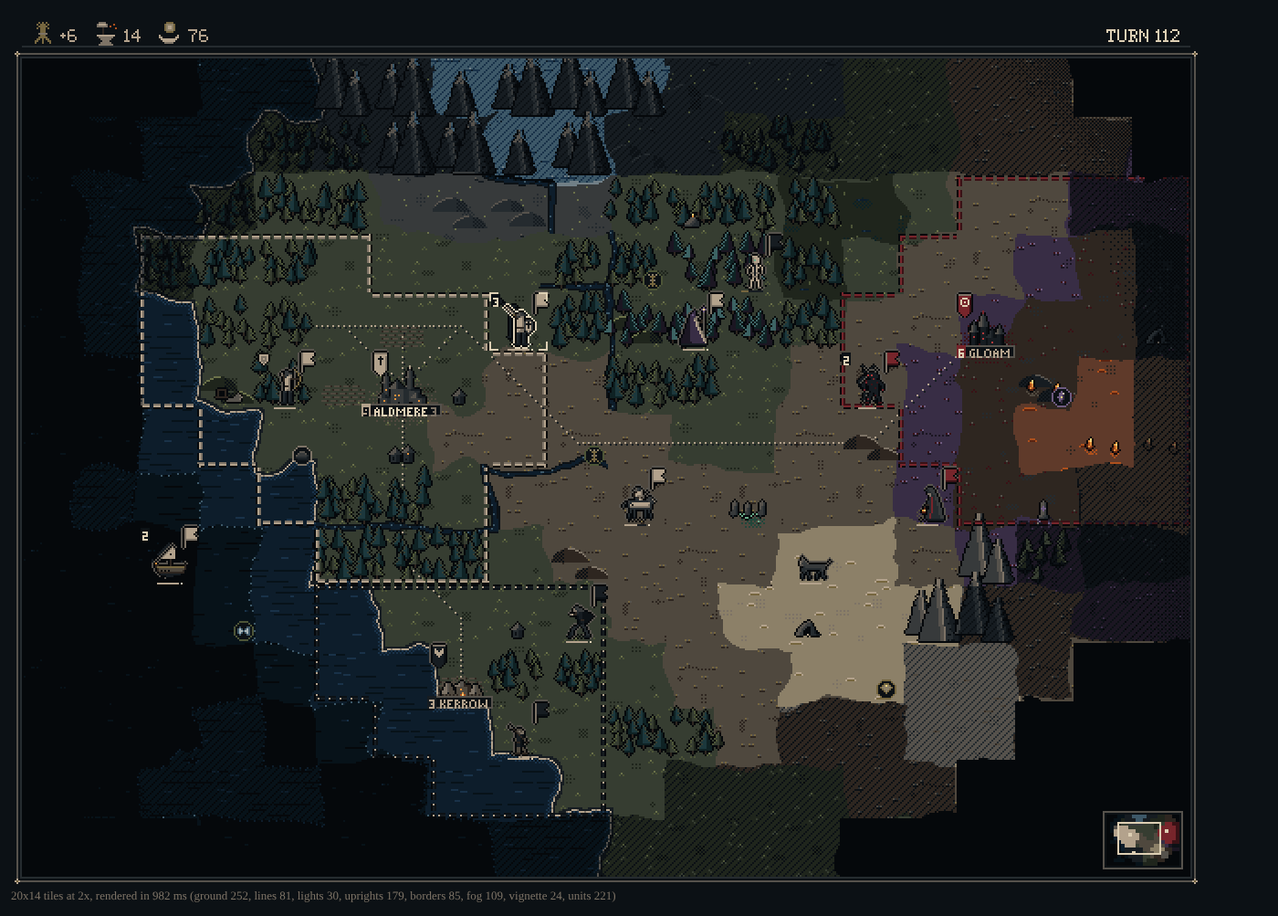
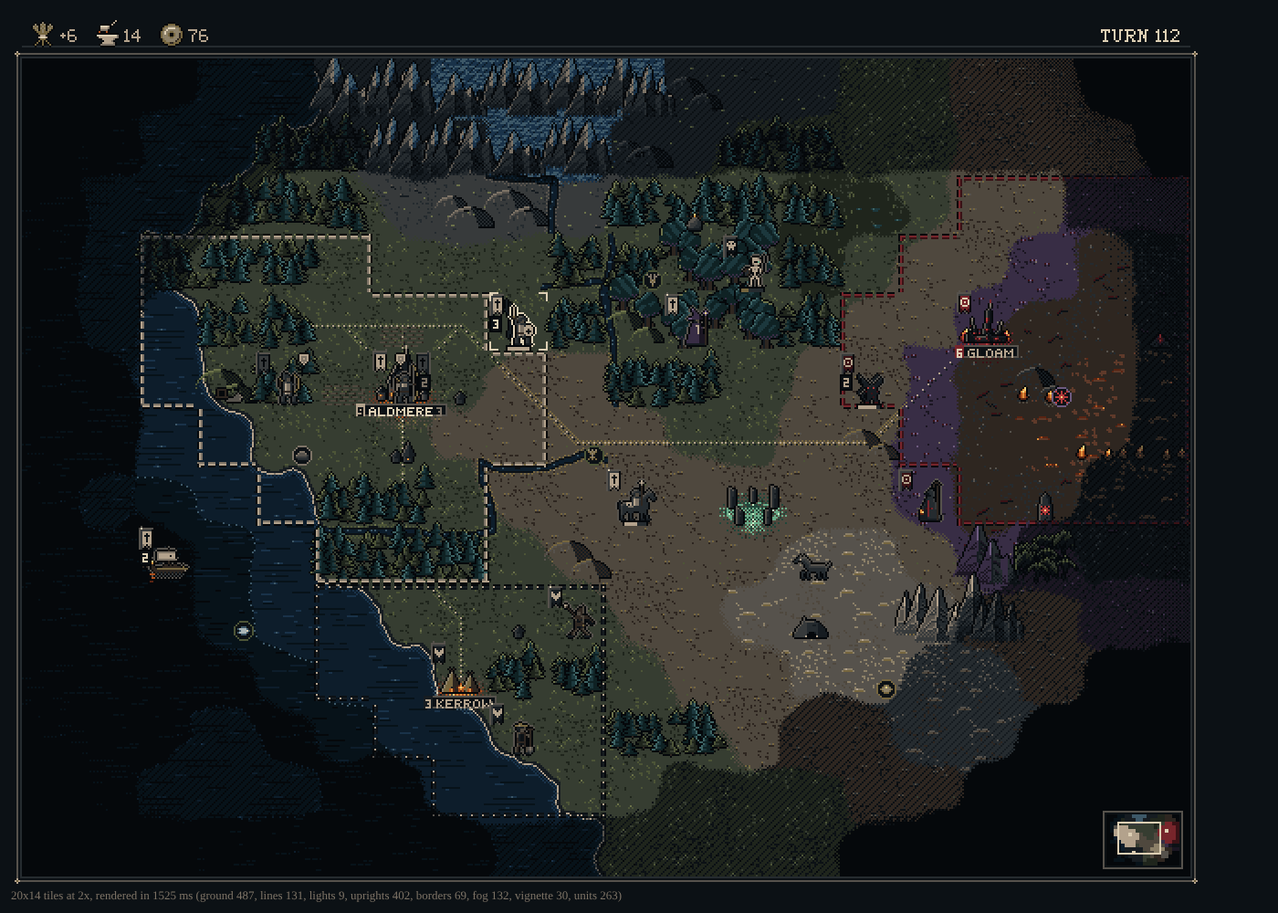
ffh-art: final assembly: one stack standard, set passes installed by loadArt, ART.md status
Integration of terrain r2, units r2, cities r2 and ui r2 (no restyling):
- ui/stack_banner was defined twice (units/stack.spr and ui/heraldry.spr, verbatim): the ui set
  adopted it, so units/stack.spr and its manifest source line go.
- loadArt() installs the sets' passes (art.js PASSES: terrain/ground.js, units/stack.js,
  cities/citylight.js; loadArt({ passes: false }) for the seed). Without it the retired pennant
  left stacks with no owner mark and the toolkit drew the seed ground and city pools.
  The set previews keep their own toggles with passes: false; scene.html gets ?passes=0.
- renderMap sets state.inCity for a stack on a city tile, so its standard moves to the top-right
  clear of the city banner; the scene has an Aldmere garrison to show it.
- Contact sheet: the heraldry grid shows ui/stack_banner instead of the retired ui/pennant.
- check.sh syntax-checks the sets' modules too; validate.mjs checks the passes install.
- Stale "until the toolkit adopts it" notes updated; docs/art reference shots regenerated.
- docs/ART.md section 16: coverage, fallbacks, how the client calls art.js, and where the
  sets supersede the guide.

Claude-Session: https://claude.ai/code/session_015m21G1a13FKUWE1YyaXREp

diff --git a/projects/ffh2-rs/crates/ffh-play/web/art/art.js b/projects/ffh2-rs/crates/ffh-play/web/art/art.js
@@ -2,6 +2,7 @@
 //
 //   import { loadArt } from './art/art.js';
 //   const art = await loadArt();          // fetches palette, sets, manifests, sprites, types.json
+//                                         // and installs the set passes (PASSES)
 //   art.scale = 2;                        // canvas pixels per art pixel (integer)
 //   art.setWorld({ width, height, wrapX });
 //   art.drawTerrain(ctx, px, py, plot);   // px, py: canvas position of the tile's top-left corner
@@ -28,7 +29,31 @@ const bayer = (x, y) => BAYER[(y & 3) * 4 + (x & 3)];
 const DIRS8 = [[0, -1], [1, -1], [1, 0], [1, 1], [0, 1], [-1, 1], [-1, 0], [-1, -1]];
 const DIVISIONS = ['plain', 'pale', 'fess', 'bend', 'quarterly'];
 
-/** Load the toolkit. opts: { base (URL of the art directory), bundle (text from tools/bundle.mjs), read (async path => text) } */
+/**
+ * The sets' passes over the seed drawing below, installed by loadArt (docs/ART.md 16): each wraps
+ * or replaces some Art methods and is idempotent. Paths are relative to this module.
+ *   terrain/ground.js    the ground pass: drawTerrain, drawFog, drawRiver, drawRoad, drawRelief,
+ *                        drawFeature
+ *   units/stack.js       drawUnit's overlay: the stack standard, count, health, marks, reflections
+ *   cities/citylight.js  drawLight's city pools (opts.inner) and drawCity's wall glow and lights
+ */
+export const PASSES = [
+  ['./terrain/ground.js', 'installTerrain'],
+  ['./units/stack.js', 'installStackOverlay'],
+  ['./cities/citylight.js', 'installCityLight'],
+];
+
+/** Install the set passes on an Art (idempotent). loadArt calls it unless opts.passes === false. */
+export async function installPasses(art) {
+  for (const [path, fn] of PASSES) (await import(path))[fn](art);
+  return art;
+}
+
+/**
+ * Load the toolkit. opts: { base (URL of the art directory), bundle (text from tools/bundle.mjs),
+ * read (async path => text), passes (default true: install the set passes, PASSES), lenient }.
+ * The pass modules are always imported next to this module, whatever `base` or `bundle` say.
+ */
 export async function loadArt(opts = {}) {
   let read = opts.read;
   if (!read && opts.bundle) {
@@ -45,7 +70,9 @@ export async function loadArt(opts = {}) {
   }
   const lib = await loadLibrary(read);
   if (lib.errors.length && !opts.lenient) console.warn(`art: ${lib.errors.length} source errors\n` + lib.errors.slice(0, 20).join('\n'));
-  return new Art(lib);
+  const art = new Art(lib);
+  if (opts.passes !== false) await installPasses(art);
+  return art;
 }
 
 function makeCanvas(w, h) {

diff --git a/projects/ffh2-rs/crates/ffh-play/web/art/compose.js b/projects/ffh2-rs/crates/ffh-play/web/art/compose.js
@@ -52,7 +52,9 @@ export function fromApiMap(api, width, height, wrapX = false) {
  *   x0, y0      canvas position of tile (0, 0); tx0, ty0, cols, rows: the tile range drawn
  *   owners      Map(ownerId -> art owner style)
  *   cities      [{ x, y, owner, size, name, capital, own, turns, disorder }]
- *   stacks      [{ x, y, unit, owner, count, state }]   one per tile: the head unit
+ *   stacks      [{ x, y, unit, owner, count, state }]   one per tile: the head unit; state as
+ *               units/stack.js reads it ({ own, moves, selected, hp, mark, hero, facing, ... });
+ *               inCity defaults to whether a city of `cities` stands on the tile
  *   cursor      { x, y, selected }
  *   vignette    bool (default true); skip: Set of layers to leave out (rivers roads lights borders fog)
  *   timings     an object that receives milliseconds per phase
@@ -143,14 +145,16 @@ export function renderMap(art, ctx, map, opts = {}) {
   }
 
   function unitLayers() {
-    // 11. units row by row, then overlays
+    // 11. units row by row, then overlays. A stack on a city tile flies its standard at the
+    // top-right (state.inCity, units/stack.js): the city banner holds the top-left.
     const stacks = (opts.stacks || []).slice().sort((a, b) => a.y - b.y || a.x - b.x);
-    for (const st of stacks) art.drawUnit(ctx, px(st.x), py(st.y), st.unit, owners.get(st.owner), { ...st.state, count: st.count, layer: 'sprite' });
+    const stateOf = (st, layer) => ({ inCity: cityAt.has(`${st.x},${st.y}`), ...st.state, count: st.count, layer });
+    for (const st of stacks) art.drawUnit(ctx, px(st.x), py(st.y), st.unit, owners.get(st.owner), stateOf(st, 'sprite'));
     for (const c of opts.cities || []) {
       const p = P(c.x, c.y);
       if (p && p.vis) art.drawCity(ctx, px(c.x), py(c.y), { ...c, visible: visible(p), layer: 'overlay' }, owners.get(c.owner));
     }
-    for (const st of stacks) art.drawUnit(ctx, px(st.x), py(st.y), st.unit, owners.get(st.owner), { ...st.state, count: st.count, layer: 'overlay' });
+    for (const st of stacks) art.drawUnit(ctx, px(st.x), py(st.y), st.unit, owners.get(st.owner), stateOf(st, 'overlay'));
     if (opts.cursor) art.drawTileCursor(ctx, px(opts.cursor.x), py(opts.cursor.y), !!opts.cursor.selected);
     lap('units');
   }

diff --git a/projects/ffh2-rs/crates/ffh-play/web/art/preview/scene.js b/projects/ffh2-rs/crates/ffh-play/web/art/preview/scene.js
@@ -1,5 +1,6 @@
 // scene.js: a 20x14 sample map in the mood-board composition: the map as a framed night page,
-// a thin top band, a minimap. ?scale=N sets the art scale (default 2). Rendered with compose.js.
+// a thin top band, a minimap. Rendered with compose.js. ?scale=N sets the art scale (default 2);
+// ?passes=0 leaves out the set passes (art.js PASSES: ground, stack standards, city light).
 import { loadArt, TILE } from '../art.js';
 import { makePlots, renderMap } from '../compose.js';
 
@@ -106,6 +107,7 @@ const STACKS = [
   { x: 8, y: 4, unit: 'UNIT_SWORDSMAN', owner: 'a', count: 3, state: { selected: true, hp: 100, moves: true } },
   { x: 10, y: 7, unit: 'UNIT_HORSEMAN', owner: 'a', count: 1, state: { hp: 60, moves: true } },
   { x: 4, y: 5, unit: 'UNIT_ARCHER', owner: 'a', count: 1, state: { hp: 100, moves: false, mark: 'fortify' } },
+  { x: 6, y: 5, unit: 'UNIT_LONGBOWMAN', owner: 'a', count: 2, state: { hp: 100, moves: false, mark: 'fortify' } },
   { x: 11, y: 4, unit: 'UNIT_ADEPT', owner: 'a', count: 1, state: { hp: 100, moves: true } },
   { x: 2, y: 8, unit: 'UNIT_TRIREME', owner: 'a', count: 2, state: { hp: 100, moves: true } },
   { x: 14, y: 5, unit: 'UNIT_IMP', owner: 'b', count: 2, state: { hp: 80, facing: 'left' } },
@@ -186,7 +188,7 @@ function minimap(art, ctx, x, y, map, owners) {
 }
 
 async function main() {
-  const art = await loadArt({ base: new URL('../', import.meta.url), lenient: true });
+  const art = await loadArt({ base: new URL('../', import.meta.url), lenient: true, passes: q.get('passes') !== '0' });
   if (art.lib.errors.length) throw new Error(art.lib.errors.join('\n'));
   art.scale = SCALE;
   const s = SCALE;

diff --git a/projects/ffh2-rs/crates/ffh-play/web/art/ui/preview.js b/projects/ffh2-rs/crates/ffh-play/web/art/ui/preview.js
@@ -590,9 +590,10 @@ async function optional(path, install) {
 }
 
 async function main() {
-  const art = await loadArt({ base: new URL('../', import.meta.url), lenient: true });
+  const art = await loadArt({ base: new URL('../', import.meta.url), lenient: true, passes: false });
   if (art.lib.errors.length) throw new Error(art.lib.errors.join('\n'));
-  // the other sets' drawing modules, until the toolkit adopts them: the units set's stack standard
+  // the other sets' drawing modules, picked here (passes: false; loadArt installs all three by
+  // default): the units set's stack standard
   // (the gonfalon, ui/stack_banner: the only owner mark on a stack); with ?ground the terrain set's
   // ground pass and with ?citylight the cities set's hearth pools (both from their second round)
   await optional('../units/stack.js', (m) => m.installStackOverlay(art));

diff --git a/projects/ffh2-rs/crates/ffh-play/web/art/preview/sheet.js b/projects/ffh2-rs/crates/ffh-play/web/art/preview/sheet.js
@@ -195,7 +195,7 @@ function renderSet(set) {
         else if (ns === 'improvement') c = improvementCell(s);
         else if (ns === 'res') c = resourceCell(s);
         else if (ns === 'route') c = spriteCell(s, 6, 'Q');
-        else if (ns === 'ui' && (s.name === 'ui/pennant' || s.name === 'ui/banner')) { grid.append(heraldryCells(s)); continue; }
+        else if (ns === 'ui' && (s.name === 'ui/stack_banner' || s.name === 'ui/banner')) { grid.append(heraldryCells(s)); continue; }
         else if (ns === 'sigil') { grid.append(sigilCell(s)); continue; }
         else c = spriteCell(s, ns === 'icon8' ? 5 : 4, '1');
         const sub = `${s.w}x${s.h}${s.meta.types.length ? ' ' + s.meta.types.join(' ') : ''}${s.meta.note ? '<br>' + s.meta.note : ''}`;

diff --git a/projects/ffh2-rs/crates/ffh-play/web/art/units/stack.js b/projects/ffh2-rs/crates/ffh-play/web/art/units/stack.js
@@ -32,7 +32,8 @@
 // pip; the count chip hangs under the sprite), so the sprite can be redrawn or moved to another set
 // without touching this file.
 //
-// Use: `installStackOverlay(art)` once after loadArt(); art.drawUnit then draws this overlay
+// Use: loadArt() installs it (art.js PASSES); by hand, `installStackOverlay(art)` once after
+// loadArt({ passes: false }); art.drawUnit then draws this overlay
 // instead of the seed pennant/strip (layer 'sprite' is unchanged; 'overlay' and 'all' use this).
 // Or call `drawStackOverlay(art, ctx, x, y, unitType, owner, state)` directly after
 // drawUnit(..., { layer: 'sprite' }). Position: the canvas point of the tile's top-left corner.

diff --git a/projects/ffh2-rs/crates/ffh-play/web/art/terrain/ground.js b/projects/ffh2-rs/crates/ffh-play/web/art/terrain/ground.js
@@ -1,8 +1,8 @@
 // terrain/ground.js: the terrain set's ground pass (docs/ART.md 5.1, 5.3, 5.5, 5.6, 8.2), drawn over
-// art.js's seed versions of the same functions until the toolkit adopts them.
+// art.js's seed versions of the same functions. loadArt() installs it (art.js PASSES); by hand:
 //
 //   import { installTerrain } from './art/terrain/ground.js';
-//   const art = await loadArt();
+//   const art = await loadArt({ passes: false });
 //   installTerrain(art);                      // once; idempotent. art.drawTerrain etc. then use it.
 //
 // What it changes, against the seed drawing (the art director's terrain review, round 2):

diff --git a/projects/ffh2-rs/crates/ffh-play/web/art/terrain/preview.js b/projects/ffh2-rs/crates/ffh-play/web/art/terrain/preview.js
@@ -231,7 +231,7 @@ async function plate(art, title, L, scale, extra = {}) {
 }
 
 async function main() {
-  const art = await loadArt({ base: new URL('../', import.meta.url), lenient: true });
+  const art = await loadArt({ base: new URL('../', import.meta.url), lenient: true, passes: false });
   if (art.lib.errors.length) throw new Error(art.lib.errors.join('\n'));
   if (PASS) installTerrain(art, q.get('rim') ? { rimKey: q.get('rim') } : {});
   const want = (m) => !ONLY || ONLY === m;

diff --git a/projects/ffh2-rs/crates/ffh-play/web/art/cities/citylight.js b/projects/ffh2-rs/crates/ffh-play/web/art/cities/citylight.js
@@ -3,6 +3,7 @@
 //
 //   import { installCityLight } from './cities/citylight.js';
 //   installCityLight(art);        // once, after loadArt(): drawCity and renderMap pick it up
+//   (loadArt() installs it by default, art.js PASSES; this is for loadArt({ passes: false }))
 //
 // 1. The hearth pool. art.drawLight's city pool applies FIRE twice (full radius, then half), and
 //    FIRE twice walks moss to dun, then ochre: the city stands in mud. Here a lit city sits in two

diff --git a/projects/ffh2-rs/crates/ffh-play/web/art/units/preview.js b/projects/ffh2-rs/crates/ffh-play/web/art/units/preview.js
@@ -356,7 +356,7 @@ function roster(art, owners) {
 }
 
 async function main() {
-  const art = await loadArt({ base: new URL('../', import.meta.url), lenient: true });
+  const art = await loadArt({ base: new URL('../', import.meta.url), lenient: true, passes: false });
   if (art.lib.errors.length) throw new Error(art.lib.errors.join('\n'));
   installStackOverlay(art);
   const owners = new Map([

diff --git a/projects/ffh2-rs/crates/ffh-play/web/art/cities/preview.js b/projects/ffh2-rs/crates/ffh-play/web/art/cities/preview.js
@@ -254,7 +254,7 @@ function towns(art) {
 }
 
 async function main() {
-  const art = await loadArt();
+  const art = await loadArt({ passes: false });
   if (q.get('light') !== '0') installCityLight(art);
   if (q.get('banner') !== 'ui') useBannerStudy(art);
   if (parts.includes('styles')) out.append(styles(art));

diff --git a/projects/ffh2-rs/docs/ART.md b/projects/ffh2-rs/docs/ART.md
@@ -9,7 +9,9 @@ The direction comes from the user's mood board (`docs/art/mood-board.png`, v2). 
 **mood**, not the UX. Its words, specific symbols, icons, panel layout and resource counters are
 placeholders from the mock-up tool and are not copied. `docs/art/style-reference.png` is a
 prototype study rendered while writing this guide (palette, terrain key, unit silhouettes, owner
-pennants, a sample map). It validates the rules below. It is not final art.
+pennants, a sample map). It validates the rules below. It is not final art. Section 16 is the
+status of the art as assembled (coverage, fallbacks, how the client calls the toolkit, and where
+the sets' second rounds supersede sections of this guide).
 
 ---
 
@@ -1323,13 +1325,13 @@ Section 13's format, extended with metadata lines between the header and the row
   | `icon16/`, `icon8/`, `ui/mark_*` | 16x16, 8x8, 8x8 |
   | `sigil/` | 5x5 (or 7x7) charges in `*` |
   | `font/vigil/`, `font/tally/` | glyphs in `8`, anchor at the baseline; `x_sc` are small capitals |
-  | `ui/` | pennant, banner and other chrome |
+  | `ui/` | the stack standard, the city banner and other chrome |
 
 - Groups: `name_a`, `name_b`... are variants of `name` (picked per tile by hash); `name_f1`,
   `name_f2`... are animation frames (picked by `art.time`, 400 ms each). A rule targets the group.
 - Names starting with `_` (`unit/_melee`) are generic: category fallbacks, not a game type.
-- Outlines are part of the sprite. Moon rims, contact shadows, pools, pennants, HP strips and plaques
-  are added by the renderer.
+- Outlines are part of the sprite. Moon rims, contact shadows, pools, standards, HP strips and
+  plaques are added by the renderer.
 
 ### 15.2 Sets, manifests and the mapping
 
@@ -1388,7 +1390,8 @@ cannot read the XML). Regenerate it when the XML changes; the validator fails wh
 ```js
 import { loadArt, TILE } from './art/art.js';
 import { renderMap, makePlots, fromApiMap } from './art/compose.js';
-const art = await loadArt();                 // or loadArt({ base: url }) or loadArt({ bundle: text })
+const art = await loadArt();                 // or loadArt({ base: url }) or loadArt({ bundle: text });
+                                             // installs the set passes (section 16.3)
 art.scale = 2;                               // canvas pixels per art pixel, an integer (3.2)
 art.setWorld({ width, height, wrapX });      // the warp noise wraps with the map
 art.setIndexNames('terrain', names);         // let plots carry engine indices (from /api/data)
@@ -1414,7 +1417,7 @@ Drawing functions take the canvas position of the tile's top-left corner:
 | `drawResource(ctx, x, y, bonusType)` | the seal at tile 25,25 |
 | `drawImprovement(ctx, x, y, type, plot)` | improvement with its pools (dark windows when not visible) |
 | `drawCity(ctx, x, y, city, ownerStyle)` | style and tier sprite, pool, window light, finial, banner, plaque |
-| `drawUnit(ctx, x, y, unitType, ownerStyle, state)` | contact shadow, echoes, rim, pennant, HP strip, moves pip, stack chip or mark |
+| `drawUnit(ctx, x, y, unitType, ownerStyle, state)` | contact shadow, echoes, rim; the overlay (standard, count chip, health bar, mark, lantern reflections) from `units/stack.js` |
 | `drawFog(ctx, x, y, plot)` | the fog pass: FOG remap with hatching, void for unrevealed, ragged edges |
 | `drawLight(ctx, cx, cy, table, r, {inner})`, `drawVignette(ctx, x, y, w, h)` | index-remap pools and the vignette |
 | `drawText(ctx, x, y, text, {font, color, shadow, smallCaps})`, `measureText` | Vigil and Tally |
@@ -1422,7 +1425,7 @@ Drawing functions take the canvas position of the tile's top-left corner:
 | `drawSprite(ctx, x, y, name, variant)`, `drawTileCursor` | any sprite by name; the tile cursor |
 
 `city` is `{ size, name, capital, own, turns, disorder, visible, style, plaque, layer }`; `state` is
-`{ facing, selected, hp, moves, count, mark, hero, translucent, accent, noPennant, layer }`;
+`{ facing, selected, hp, moves, own, count, mark, hero, inCity, translucent, accent, noPennant, layer }`;
 `layer: 'sprite' | 'overlay'` splits a unit or city into the map part and the overlays drawn
 above every unit. `ownerStyle(civ, {division, tincture, ...})` builds an owner style and
 `assignOwners([{id, civ}])` applies the assignment of section 7.2.
@@ -1493,7 +1496,7 @@ redraw only changed tiles (3.1).
 4. Run `tools/check.sh`, then look: `node tools/screenshot.mjs /tmp/art` and read the set's sheet,
    `coverage.png` and `scene.png` at 1x and 2x. Review against section 14.
 
-The seed art is deliberately small: 8 terrain textures (hell terrains are recoloured twins), hill
+The toolkit started from seed art (section 16 has the art as it now stands), deliberately small: 8 terrain textures (hell terrains are recoloured twins), hill
 humps, rock and snow peaks, three conifers (also ancient, burnt, new forest and jungle through
 remaps), flames, routes; 15 generic unit silhouettes that every unit falls back to by combat class,
 race, domain and tier; Cloister tiers 1-3, Infernal 2 and Tribal 2 cities; farm, cottage, hamlet,
@@ -1501,3 +1504,148 @@ mine and category fallbacks for improvements and lairs; resource seals; pennant,
 sigils; the Vigil and Tally fonts; yield and category icons. Not drawn yet: bespoke units, most
 sigils and city styles, the 18 sphere runes, landmarks, walls, disorder smoke, holy-city glyphs,
 cursors and path previews.
+
+---
+
+## 16. Status
+
+The four sets were drawn in parallel (terrain, units, cities, ui), each revised in a second round
+after review, and merged on the branch `art-final`. `tools/check.sh` passes: every module parses,
+the unit tests pass, every sprite and rule validates, `types.json` matches `data/xml`, every game
+type of every kind resolves, and `loadArt` installs the set passes.
+
+### 16.1 Coverage
+
+959 sprites (924 groups) in 25 source files: terrain 89, units 187, cities 211 (80 city sprites,
+69 improvements, 62 resource glyphs and the seal), ui 472 (192 font glyphs). How each game type
+resolves (`tools/validate.mjs`, also the table at the top of `preview/sheet.html?set=all`):
+
+| kind | types | exact | base unit | category | none |
+|---|---|---|---|---|---|
+| terrain | 14 | 14 | | | |
+| hill / peak | 14 / 14 | 10 / 10 | | | 4 / 4 |
+| feature | 20 | 20 | | | |
+| bonus | 58 | 58 | | | |
+| improvement | 81 | 79 | | | 2 |
+| route | 2 | 2 | | | |
+| unit | 325 | 283 | 24 | 18 | |
+| civ (sigil) | 23 | 23 | | | |
+| citystyle | 23 | 22 | | 1 | |
+| religion | 7 | 7 | | | |
+| building | 170 | 90 | | 80 | |
+| promotion | 261 | 30 | | 231 | |
+| unitcombat | 10 | 10 | | | |
+| specialist | 11 | 11 | | | |
+
+"Exact" means a rule naming the type, a sprite claiming it (`: types`) or the naming convention;
+several exact unit rules point at a shared sprite with a faith accent, a material remap or the
+ghost flag. Every land terrain has its own hill and peak rule; city styles: 16 styles x 5 tiers;
+landmarks: the 17 unique improvements, drawn by the terrain set.
+
+### 16.2 What uses fallbacks
+
+- **Units, 24 by their base unit's sprite** (unique units without a sprite of their own): Eater
+  of Dreams (archmage); Chanter, Devout, Taskmaster (assassin); Sons of Asena (axeman); Myconid,
+  Spiderkin (beastmaster); Circle of Urd (berserker); Dwarven Cannon (cannon); Battlemaster,
+  Dragon Slayer (champion); Decius (commander); Flurry (crossbowman); Luonnotar (druid); Fyrdwell,
+  Nyxkin (horse archer); Skuld (immortal); Illusionist, Wizard (mage); Verdandi (phalanx); Pirate
+  (privateer); Harlequin (ranger); Courtesan, Dwarven Shadow (shadow).
+- **Units, 18 by a category rule** (to the nearest silhouette of their class): Arquebus
+  (crossbowman); Auric, Lucian, Radiant Guard (generic melee); Demagog, Grigori Medic, Lunatic,
+  Mary, Mercenary (champion); Fawn (generic recon); Freak (warrior); Kithra, Mercenary Mounted,
+  Royal Guard (horse archer); Nightwatch (longbowman); Ratha (horseman); Revelers, Satyr (ranger).
+- **Buildings**: no building has an icon of its own; every one shows its class icon
+  (`icon16/bclass_<class>`, 20 icons: a temple per faith, shrine, government, military, defence,
+  economy, provision, health, harbour, learning, culture, arcane, forge, wonder). 90 are mapped by
+  rules naming them, the other 80 by category (world wonders, faith, defence...).
+- **Promotions**: 37 seals (19 kinds of line and the 18 spheres) with the rim colour by family;
+  30 promotions by rules naming them, 231 by category (line, sphere, race, equipment...). Levels
+  show as pips (`UI.drawPromotion`).
+- **City style**: CIVILIZATION_RANDOM falls back to the Cloister.
+- **Deliberately not drawn** (`none`): hills and peaks on water and on the graphics-only
+  TERRAIN_PEAK and TERRAIN_HILL; IMPROVEMENT_LAND_WORKED and IMPROVEMENT_WATER_WORKED.
+- Category rules remain for types added to the XML later (a new unit falls back by combat class,
+  race and domain; a new improvement or landmark to its category sprite).
+
+### 16.3 How the client calls the toolkit
+
+`loadArt()` loads the sprites and the mapping, then installs the sets' **passes** (`PASSES` in
+art.js): `terrain/ground.js` (the ground pass: blob terrain classes, wider warp, feathered edges,
+organic fog, river and road verges, wooded crests, moonlit wood rims), `units/stack.js` (the stack
+standard, count chip, health bar, marks and lantern reflections) and `cities/citylight.js` (the
+hearth pool, wall glow and bonfires). Each wraps or replaces some `Art` methods, so the drawing
+functions of 15.3 and `renderMap` produce the final look without further calls.
+`loadArt({ passes: false })` gives the seed drawing (the set previews use it to install their own
+module with their toggles). The pass modules are imported next to art.js, so serve the whole
+`web/art` directory even when the sprites come from a bundle.
+
+```js
+import { loadArt, TILE } from './art/art.js';
+import { renderMap, makePlots, fromApiMap } from './art/compose.js';
+import * as UI from './art/ui/ui.js';
+
+const art = await loadArt();                       // sprites, mapping, set passes
+for (const [kind, names] of Object.entries(typeNames)) art.setIndexNames(kind, names); // /api/data
+art.scale = zoom;                                  // 1 (survey) to 4; integers only
+const owners = art.assignOwners(players);          // [{ id, civ }] -> Map(id -> owner style)
+const map = fromApiMap(apiMap, w, h, wrapX);
+const plots = makePlots(map);
+UI.installCSS(art, { u, dpr });                    // chrome: frames, buttons, cursors, colours
+
+// per zoom: the terrain layer into an offscreen cache (redraw only tiles that change) ...
+renderMap(art, cacheCtx, map, { plots, owners, cities, only: 'terrain' });
+// ... per frame: blit the cache, vignette, then units, city overlays and the cursor
+ctx.drawImage(cache, x0, y0);
+art.drawVignette(ctx, x0, y0, viewW, viewH);
+renderMap(art, ctx, map, { plots, owners, cities, stacks, cursor, x0, y0, only: 'units' });
+```
+
+- `cities`: `{ x, y, owner, size, name, capital, own, turns, disorder }`; `stacks`: one per tile,
+  the head unit, `{ x, y, unit, owner, count, state }` with `state` `{ own, moves, selected, hp,
+  mark, hero, facing }` (`moves` only for your own units; foreign stacks stay quiet). A stack on a
+  city tile flies its standard at the top-right (`inCity`, set by `renderMap` from `cities`).
+- Canvases that fog and pools read back need `getContext('2d', { willReadFrequently: true })`.
+- Map overlays from `ui/ui.js`: `UI.drawTileMark`, `drawPath`, `drawOdds`, `drawRange`,
+  `drawTileYields`; panels and text: `UI.textSpan` (Vigil, Vigil Book), `UI.iconFor(art, kind, TYPE,
+  16|8)`, `UI.promotionEl`, `drawButton`, `drawBar` (`ui/README.md` lists them all).
+- Minimap colours: `art.resolve(kind, type).opts.mini` on the terrain, hill, peak and feature
+  rules (`terrain/manifest.txt`); owned land takes the owner's field colour.
+- Working examples: `preview/scene.html` (`?cache=1` the cached path, `?scale=1`, `?passes=0`
+  the seed) and `ui/preview.html?ground&citylight` (a mock screen) draw this way.
+
+### 16.4 Where the sets supersede this guide
+
+The sets' notes (`*/manifest.txt`, `ui/README.md`) record their choices; the ones that change
+sections above:
+
+- **3.3, 7.4, 10.1: one owner mark.** A stack flies the 7x12 standard `ui/stack_banner` (pole,
+  crossbar, a 5x8 field with the civilization's 5x5 sigil, swallow tails) at the tile's top-left
+  (top-right in a city), quiet (the tincture's shade) except on your own movable or selected stack;
+  the finial pip shows moves (vellum) and heroes (gilt); the count chip hangs under it; the health
+  bar (12x2, void frame) shows only when hurt or selected; the state mark sits at the top-right
+  (top centre in a city). The 6x8 pennant is retired. The city banner `ui/banner` is the same
+  field without the pole.
+- **5.1-5.6: the ground pass** (`terrain/ground.js`) replaces the per-tile warp of 5.1 with
+  class blobs (Gaussian weights of the 3x3 tile centres, sigma 13 px, a three-octave warp up to
+  10 px), dithered feathers between land textures, organic fog and unrevealed edges, pale road and
+  river verges, unmirrored hills with wooded crests and a moonlit rim on woods
+  (`terrain/manifest.txt` lists the texture choices: flecked mottling, ash desert, wind-streaked
+  snow, umber burning sands).
+- **9.1: city light** as written there (the hearth pool, `cities/citylight.js`); its HEARTH,
+  GORE and AURA tables are candidates for new columns of 2.4.
+- **10.5: lanterns.** Ships and settlers carry a lantern (glow over amber, FIRE radius 6); on water
+  it casts the broken reflection of 5.4 under the hull.
+- **11.5: icons.** Buildings have class icons; heroic and divine promotion seals have a double
+  gilt rim; the Armageddon eclipse under 50 is soot with an iron corona.
+- **11.6: type.** Vigil Book (lower case, 5 px x-height) is the body face for short UI text; the
+  system serif is for long prose only.
+- **3.3: city height.** City sprites stay within the validator's 34x34 (tier V rises 6 px into the
+  tile to the north, not 12).
+
+### 16.5 Reference shots
+
+`docs/art/toolkit-scene.png` (the sample scene at 2x) and `docs/art/toolkit-units.png` (the top of
+the units sheet) show the assembled art; each set keeps its own small reference sheets
+(`terrain/ref/`, `units/reference*.png`, `cities/ref-styles.png`, `ui/ref/`). Regenerate with
+`node tools/screenshot.mjs /tmp/art` and read `scene.png`, `scene-1x.png`, the four set sheets and
+`coverage.png`.
